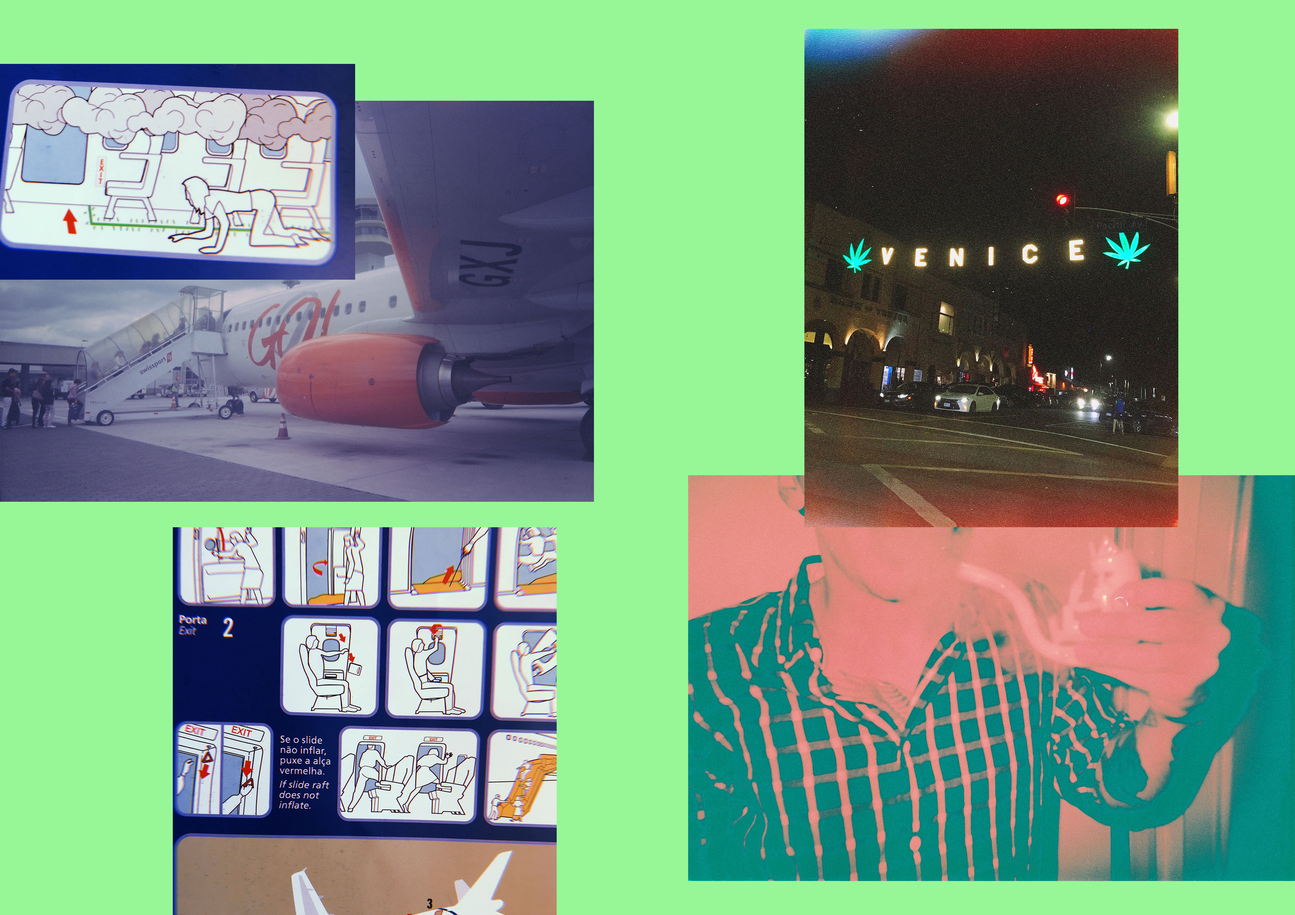
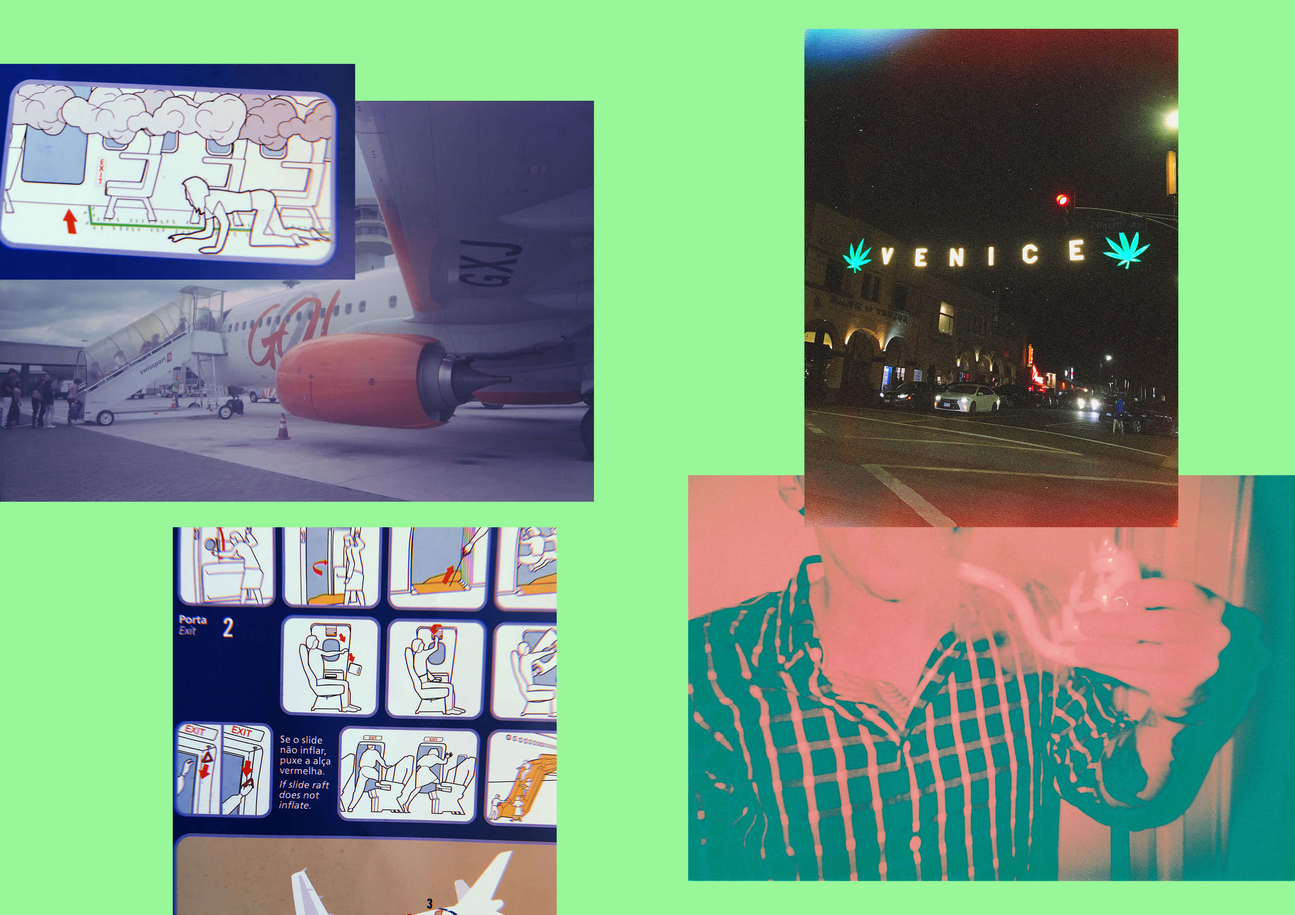
[fix] imgs size

diff --git a/src/pages/index.js b/src/pages/index.js
@@ -4,10 +4,7 @@ import { graphql } from 'gatsby'
 import Layout from "../components/Layout"
 import Carousel from "../components/Carousel"
 import Instagram from "../components/Instagram"
-// import loadable from '@loadable/component'
 import { Rnd } from "react-rnd";
-
-// const Draggable = loadable(() => import('react-draggable'))
 
 const IndexPage = ({
   data: {
@@ -23,7 +20,6 @@ const IndexPage = ({
         <title>{site.siteMetadata.title}</title>
         <meta name="description" content={site.siteMetadata.description} />
       </Helmet>
-      <Instagram />
       <Carousel />
       {Posts.map(item =>
         <Rnd
@@ -51,6 +47,7 @@ const IndexPage = ({
           height="600px"
         ></iframe>
       </div>
+      <Instagram />
     </Layout>
   )
 }

diff --git a/src/styles/global.scss b/src/styles/global.scss
@@ -18,6 +18,7 @@ body {
   background-image: url('../../static/assets/Trip-bg.png');
   background-repeat: space;
   background-size: 50px;
+  position: relative;
 }
 * {
   margin: 0;
@@ -72,31 +73,22 @@ button {
   width: 100%;
   height: 100vh;
 }
-@media (max-width: 440px) {
-  .react-draggable-item {
-    img {
-      width: 50px !important;
-    }
-  }
-}
-
-// index
 .react-draggable-item {
-  position: absolute;
-  z-index: 999;
-  height: auto;
-  width: auto;
-  top: 0;
-
   img {
     width: 250px;
   }
 }
-
 .vimeo {
   width: 100%;
   height: 100vh;
   display: flex;
   justify-content: center;
   align-items: center;
+}
+@media (max-width: 440px) {
+  .react-draggable-item {
+    img {
+      width: 150px !important;
+    }
+  }
 }

diff --git a/src/components/Instagram.js b/src/components/Instagram.js
@@ -5,7 +5,7 @@ const Instagram = () => {
 
   return (
     <section className="instagram-wrapper">
-      <a href="https://www.instagram.com/zinetrip/">Instagram</a>
+      <a href="https://www.instagram.com/zinetrip/">☻INSTAGRAM☻</a>
     </section>
   )
 }

diff --git a/src/components/Instagram.scss b/src/components/Instagram.scss
@@ -1,6 +1,6 @@
 .instagram-wrapper {
   width: 100%;
-  padding: 15px 0 0;
+  padding: 15px 0;
   text-align: center;
 
   a {
@@ -10,6 +10,6 @@
     font-weight: bolder;
   }
   a:hover {
-    color: #000;
+    color: rgb(133, 255, 164);
   }
 }
